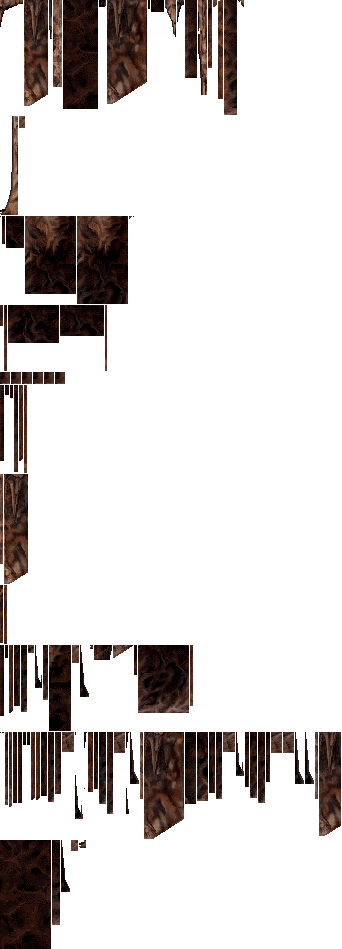
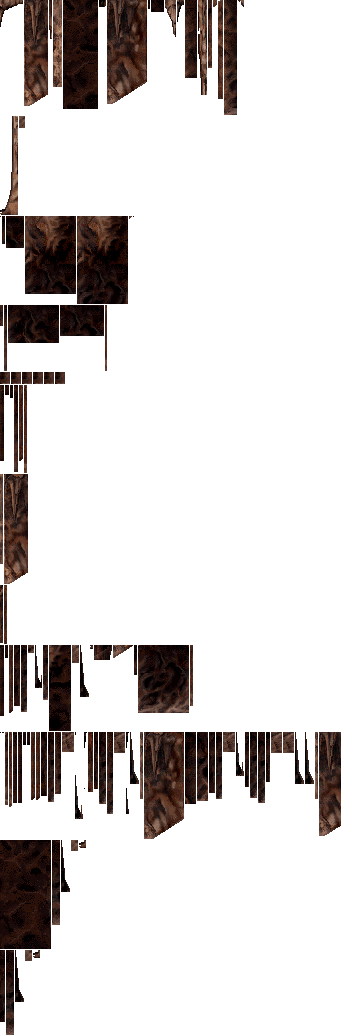
Blend the approved column shadow in level 3 room 5

diff --git a/tests/test_cavern_retouch.py b/tests/test_cavern_retouch.py
@@ -49,8 +49,8 @@ class BundledCavernRetouchTests(unittest.TestCase):
 
     def test_bundled_variants_have_valid_scope_and_crop_sizes(self):
         assets = retouch_assets()
-        self.assertEqual(len(assets), 36)
-        self.assertEqual({key[0] for key in assets}, {0, 1, 27, 29})
+        self.assertEqual(len(assets), 41)
+        self.assertEqual({key[0] for key in assets}, {0, 1, 4, 27, 29})
         for key, (record, image) in assets.items():
             with self.subTest(key=key):
                 x1, y1, x2, y2 = record['source_rect']
@@ -63,7 +63,7 @@ class BundledCavernRetouchTests(unittest.TestCase):
     def test_unaffected_rooms_do_not_even_load_retouch_assets(self):
         source = Image.new('RGBA', (5, 5), 'red')
         with patch('pop2.cavern_retouch.retouch_assets', side_effect=AssertionError('Unexpected load')):
-            for room in set(range(32)) - {0, 1, 27, 29}:
+            for room in set(range(32)) - {0, 1, 4, 27, 29}:
                 self.assertIs(retouched_sprite(room, [], source), source)
 
     def test_unmatched_sources_and_other_shape_libraries_are_untouched(self):
@@ -435,17 +435,17 @@ class CavernRetouchTests(unittest.TestCase):
         game = LevelRenderer(level, preload_room=False)
         reference = LevelRenderer(level, preload_room=False, retouch_caverns=False)
         for room in range(32):
-            expected = cavern_room(room, animated=True, retouched=room in (0, 1, 12, 27, 29))
+            expected = cavern_room(room, animated=True, retouched=room in (0, 1, 4, 12, 27, 29))
             self.assertEqual(game.room(room).flattened().tobytes(), expected.flattened().tobytes())
             self.assertEqual(reference.room(room).flattened().tobytes(), cavern_room(room, animated=True).flattened().tobytes())
 
     def test_retained_pixels_do_not_propagate_retouch_into_adjacent_rooms(self):
         level = LevelDefinition.read(load_resource_file('Prince.rsrc'), 3)
         terrain = LevelMap(level.data)
-        for source in (0, 1, 12, 27, 29):
+        for source in (0, 1, 4, 12, 27, 29):
             for direction in ('left', 'right', 'up', 'down'):
                 destination = terrain.neighbor(source, direction)
-                if destination is None or destination in (0, 1, 12, 27, 29):
+                if destination is None or destination in (0, 1, 4, 12, 27, 29):
                     continue
                 with self.subTest(source=source, destination=destination):
                     game = LevelRenderer(level, preload_room=False)
@@ -460,6 +460,7 @@ class CavernRetouchTests(unittest.TestCase):
 # RGB hashes are the user's approved V4 previews, including existing retouches.
 COLUMN_SHADOWS = {
[2 lines of base64/hex data omitted]
 }
 
 

diff --git a/pop2/cavern_retouch.py b/pop2/cavern_retouch.py
@@ -86,7 +86,7 @@ def retouched_door_sprite(level, room, command, source):
 
 
 def retouched_sprite(room, command, source, *, level_number=3):
-    approved = (room in (0, 1, 27, 29) if level_number == 3
+    approved = (room in (0, 1, 4, 27, 29) if level_number == 3
                 else room in (4, 11, 13, 21, 22, 25, 27) if level_number == 4
                 else level_number == 5 and room in (5, 6, 13, 14, 15, 16, 22, 24))
     if not approved or len(command) < 8 or command[7] != 4:

diff --git a/docs/CAVERN_ARTWORK.md b/docs/CAVERN_ARTWORK.md
@@ -170,6 +170,7 @@ is included. Other columns found during the inventory are not approved targets.
 | Level | Room | Column X / bottom | Added visible changes | Combined render RGB SHA256 |
 | --- | --- | --- | --- | --- |
[2 lines of base64/hex data omitted]
 
 The enlarged comparisons and approval manifest remain local under
 `rendered/column-shadow-five-v4/`. Each row's hash uses the static cached room
